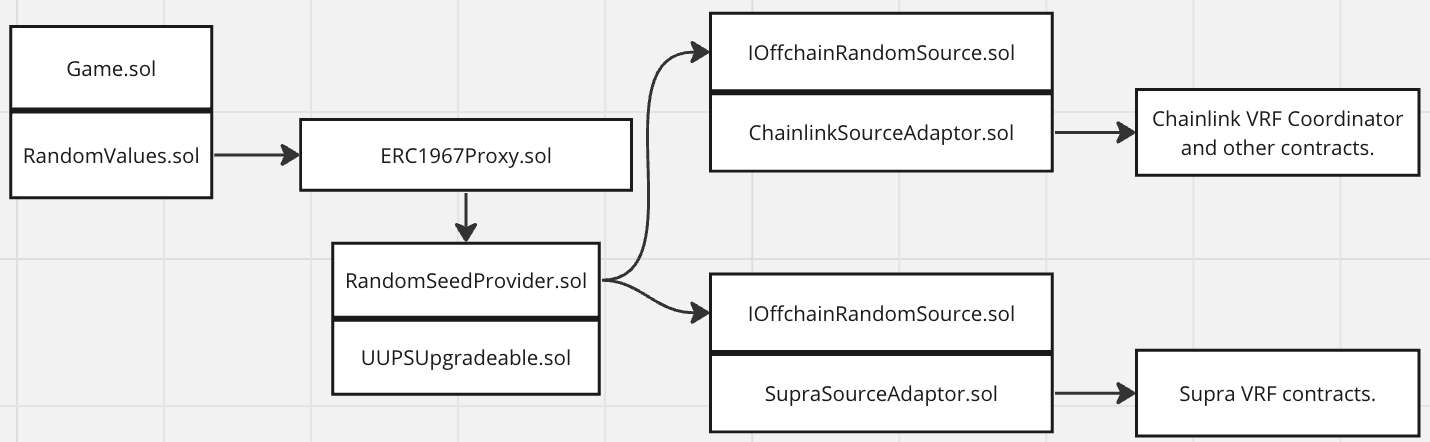
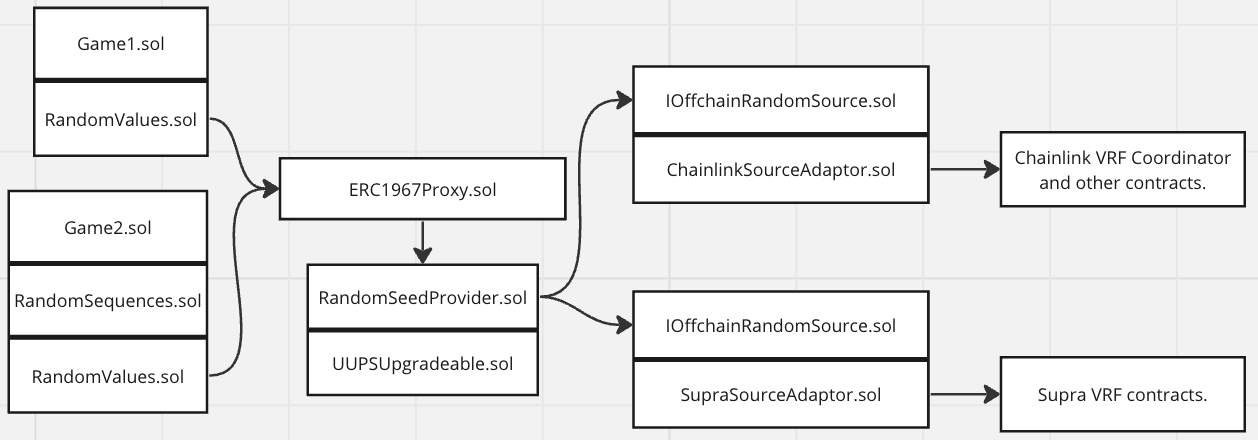
Updated documentation

diff --git a/contracts/random/README.md b/contracts/random/README.md
@@ -32,9 +32,11 @@ The Random Number Generation system on the immutable platform is shown in the di
 
 ![Random number genration](./random-architecture.png)
 
-Game contracts extend ```RandomValues.sol```. This contract interacts with the ```RandomSeedProvider.sol``` contract to request and retreive random seed values. 
+Game contracts can extend ```RandomValues.sol``` or ```RandomSequences.sol```. 
+```RandomSequences.sol``` is an extension of ```RandomValues.sol```. 
+```RandomValues.sol``` interacts with the ```RandomSeedProvider.sol``` contract to request and retreive random seed values. 
 
-There is one ```RandomSeedProvider.sol``` contract deployed per chain. Each game has its own instance of ```RandomValues.sol``` as this contract is integrated directly into the game contract. 
+There is one ```RandomSeedProvider.sol``` contract deployed per chain. Each game has its own instance of ```RandomValues.sol``` and / or ```RandomSequences.sol``` as this contract is integrated directly into the game contract. 
 
 The ```RandomSeedProvider.sol``` operates behind a transparent proxy, ```ERC1967Proxy.sol```, with the upgrade
 logic included in the ```UUPSUpgradeable.sol``` contract that ```RandomSeedProvider.sol``` extends. Using an upgradeable pattern allows the random manager contract to be upgraded to extend its feature set and resolve issues. 
@@ -43,11 +45,20 @@ The ```RandomSeedProvider.sol``` contract can be configured to use an off-chain 
 
 The architecture diagram shows a ChainLink VRF source and a Supra VRF source. This is purely to show the possibility of integrating with one off-chain service and then, at a later point choosing to switch to an alternative off-chain source. At present, there is no agreement to use any specific off-chain source.
 
+```RandomValues.sol``` provides an API in which random numbers are requested in one transaction and then 
+fulfilled in a later transaction. ```RandomSequences.sol``` provides an API in which a random number
+is supplied and the next one is requested in the same transaction. Whereas the API offered by 
+```RandomValues.sol``` provides numbers that can not be predicted, the API offered by 
+```RandomSequences.sol``` means that savvy game players that can analyse blockchain state can 
+predict the next random value to be generated. However, they are unable to the random number 
+that will be generated. ```RandomSequences.sol```'s API can be used securely by ensuring 
+the purpose of random numbers used in a game are clearly segregated, and that a different
+sequence type is given for each purpose. 
 
 
-## Process of Requesting a Random Number
+## Process of Requesting a Random Number using Random Values
 
-The process for requesting a random number is shown below. Players do actions requiring a random number or a set of random numbers. They purchase, or commit to the random value(s), which is later revealed. 
+The process for requesting a random number using ```RandomValues.sol``` is shown below. Players do actions requiring a random number or a set of random numbers. They purchase, or commit to the random value(s), which is later revealed. 
 
 ![Random number genration](./random-sequence.png)
 
